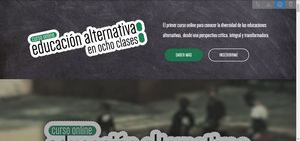
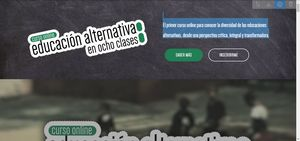
Nueva Pagina Talleres

Changed region(s): [[0.54, 0.0851, 0.9, 0.2837]]

diff --git a/assets/parallax/jarallax.min.js b/assets/parallax/jarallax.min.js
@@ -1,0 +1,7 @@
+/*!
+ * Name    : Just Another Parallax [Jarallax]
+ * Version : 1.7.3
+ * Author  : _nK https://nkdev.info
+ * GitHub  : https://github.com/nk-o/jarallax
+ */
+!function(e){"use strict";function t(){i=e.innerWidth||document.documentElement.clientWidth,a=e.innerHeight||document.documentElement.clientHeight}function n(e,t,n){e.addEventListener?e.addEventListener(t,n):e.attachEvent("on"+t,function(){n.call(e)})}function o(n){e.requestAnimationFrame(function(){"scroll"!==n.type&&t();for(var e=0,o=g.length;e<o;e++)"scroll"!==n.type&&(g[e].coverImage(),g[e].clipContainer()),g[e].onScroll()})}Date.now||(Date.now=function(){return(new Date).getTime()}),e.requestAnimationFrame||!function(){for(var t=["webkit","moz"],n=0;n<t.length&&!e.requestAnimationFrame;++n){var o=t[n];e.requestAnimationFrame=e[o+"RequestAnimationFrame"],e.cancelAnimationFrame=e[o+"CancelAnimationFrame"]||e[o+"CancelRequestAnimationFrame"]}if(/iP(ad|hone|od).*OS 6/.test(e.navigator.userAgent)||!e.requestAnimationFrame||!e.cancelAnimationFrame){var i=0;e.requestAnimationFrame=function(e){var t=Date.now(),n=Math.max(i+16,t);return setTimeout(function(){e(i=n)},n-t)},e.cancelAnimationFrame=clearTimeout}}();var i,a,r=function(){if(!e.getComputedStyle)return!1;var t,n=document.createElement("p"),o={webkitTransform:"-webkit-transform",OTransform:"-o-transform",msTransform:"-ms-transform",MozTransform:"-moz-transform",transform:"transform"};(document.body||document.documentElement).insertBefore(n,null);for(var i in o)"undefined"!=typeof n.style[i]&&(n.style[i]="translate3d(1px,1px,1px)",t=e.getComputedStyle(n).getPropertyValue(o[i]));return(document.body||document.documentElement).removeChild(n),"undefined"!=typeof t&&t.length>0&&"none"!==t}(),l=navigator.userAgent.toLowerCase().indexOf("android")>-1,s=/iPad|iPhone|iPod/.test(navigator.userAgent)&&!e.MSStream,c=!!e.opera,m=/Edge\/\d+/.test(navigator.userAgent),p=/Trident.*rv[ :]*11\./.test(navigator.userAgent),u=!!Function("/*@cc_on return document.documentMode===10@*/")(),d=document.all&&!e.atob;t();var g=[],f=function(){function e(e,n){var o,i=this;if(i.$item=e,i.defaults={type:"scroll",speed:.5,imgSrc:null,imgWidth:null,imgHeight:null,enableTransform:!0,elementInViewport:null,zIndex:-100,noAndroid:!1,noIos:!0,onScroll:null,onInit:null,onDestroy:null,onCoverImage:null},o=JSON.parse(i.$item.getAttribute("data-jarallax")||"{}"),i.options=i.extend({},i.defaults,o,n),!(l&&i.options.noAndroid||s&&i.options.noIos)){i.options.speed=Math.min(2,Math.max(-1,parseFloat(i.options.speed)));var a=i.options.elementInViewport;a&&"object"==typeof a&&"undefined"!=typeof a.length&&(a=a[0]),!a instanceof Element&&(a=null),i.options.elementInViewport=a,i.instanceID=t++,i.image={src:i.options.imgSrc||null,$container:null,$item:null,width:i.options.imgWidth||null,height:i.options.imgHeight||null,useImgTag:s||l||c||p||u||m},i.initImg()&&i.init()}}var t=0;return e}();f.prototype.css=function(t,n){if("string"==typeof n)return e.getComputedStyle?e.getComputedStyle(t).getPropertyValue(n):t.style[n];n.transform&&(n.WebkitTransform=n.MozTransform=n.transform);for(var o in n)t.style[o]=n[o];return t},f.prototype.extend=function(e){e=e||{};for(var t=1;t<arguments.length;t++)if(arguments[t])for(var n in arguments[t])arguments[t].hasOwnProperty(n)&&(e[n]=arguments[t][n]);return e},f.prototype.initImg=function(){var e=this;return null===e.image.src&&(e.image.src=e.css(e.$item,"background-image").replace(/^url\(['"]?/g,"").replace(/['"]?\)$/g,"")),!(!e.image.src||"none"===e.image.src)},f.prototype.init=function(){function e(){t.coverImage(),t.clipContainer(),t.onScroll(!0),t.options.onInit&&t.options.onInit.call(t),setTimeout(function(){t.$item&&t.css(t.$item,{"background-image":"none","background-attachment":"scroll","background-size":"auto"})},0)}var t=this,n={position:"absolute",top:0,left:0,width:"100%",height:"100%",overflow:"hidden",pointerEvents:"none"},o={position:"fixed"};t.$item.setAttribute("data-jarallax-original-styles",t.$item.getAttribute("style")),"static"===t.css(t.$item,"position")&&t.css(t.$item,{position:"relative"}),"auto"===t.css(t.$item,"z-index")&&t.css(t.$item,{zIndex:0}),t.image.$container=document.createElement("div"),t.css(t.image.$container,n),t.css(t.image.$container,{visibility:"hidden","z-index":t.options.zIndex}),t.image.$container.setAttribute("id","jarallax-container-"+t.instanceID),t.$item.appendChild(t.image.$container),t.image.useImgTag&&r&&t.options.enableTransform?(t.image.$item=document.createElement("img"),t.image.$item.setAttribute("src",t.image.src),o=t.extend({"max-width":"none"},n,o)):(t.image.$item=document.createElement("div"),o=t.extend({"background-position":"50% 50%","background-size":"100% auto","background-repeat":"no-repeat no-repeat","background-image":'url("'+t.image.src+'")'},n,o)),d&&(o.backgroundAttachment="fixed"),t.parentWithTransform=0;for(var i=t.$item;null!==i&&i!==document&&0===t.parentWithTransform;){var a=t.css(i,"-webkit-transform")||t.css(i,"-moz-transform")||t.css(i,"transform");a&&"none"!==a&&(t.parentWithTransform=1,t.css(t.image.$container,{transform:"translateX(0) translateY(0)"})),i=i.parentNode}t.css(t.image.$item,o),t.image.$container.appendChild(t.image.$item),t.image.width&&t.image.height?e():t.getImageSize(t.image.src,function(n,o){t.image.width=n,t.image.height=o,e()}),g.push(t)},f.prototype.destroy=function(){for(var e=this,t=0,n=g.length;t<n;t++)if(g[t].instanceID===e.instanceID){g.splice(t,1);break}var o=e.$item.getAttribute("data-jarallax-original-styles");e.$item.removeAttribute("data-jarallax-original-styles"),"null"===o?e.$item.removeAttribute("style"):e.$item.setAttribute("style",o),e.$clipStyles&&e.$clipStyles.parentNode.removeChild(e.$clipStyles),e.image.$container.parentNode.removeChild(e.image.$container),e.options.onDestroy&&e.options.onDestroy.call(e),delete e.$item.jarallax;for(var i in e)delete e[i]},f.prototype.getImageSize=function(e,t){if(e&&t){var n=new Image;n.onload=function(){t(n.width,n.height)},n.src=e}},f.prototype.clipContainer=function(){if(!d){var e=this,t=e.image.$container.getBoundingClientRect(),n=t.width,o=t.height;if(!e.$clipStyles){e.$clipStyles=document.createElement("style"),e.$clipStyles.setAttribute("type","text/css"),e.$clipStyles.setAttribute("id","#jarallax-clip-"+e.instanceID);var i=document.head||document.getElementsByTagName("head")[0];i.appendChild(e.$clipStyles)}var a=["#jarallax-container-"+e.instanceID+" {","   clip: rect(0 "+n+"px "+o+"px 0);","   clip: rect(0, "+n+"px, "+o+"px, 0);","}"].join("\n");e.$clipStyles.styleSheet?e.$clipStyles.styleSheet.cssText=a:e.$clipStyles.innerHTML=a}},f.prototype.coverImage=function(){var e=this;if(e.image.width&&e.image.height){var t=e.image.$container.getBoundingClientRect(),n=t.width,o=t.height,i=t.left,l=e.image.width,s=e.image.height,c=e.options.speed,m="scroll"===e.options.type||"scroll-opacity"===e.options.type,p=0,u=0,d=o,g=0,f=0;m&&(p=c<0?c*Math.max(o,a):c*(o+a),c>1?d=Math.abs(p-a):c<0?d=p/c+Math.abs(p):d+=Math.abs(a-o)*(1-c),p/=2),u=d*l/s,u<n&&(u=n,d=u*s/l),e.bgPosVerticalCenter=0,!(m&&d<a)||r&&e.options.enableTransform||(e.bgPosVerticalCenter=(a-d)/2,d=a),m?(g=i+(n-u)/2,f=(a-d)/2):(g=(n-u)/2,f=(o-d)/2),r&&e.options.enableTransform&&e.parentWithTransform&&(g-=i),e.parallaxScrollDistance=p,e.css(e.image.$item,{width:u+"px",height:d+"px",marginLeft:g+"px",marginTop:f+"px"}),e.options.onCoverImage&&e.options.onCoverImage.call(e)}},f.prototype.isVisible=function(){return this.isElementInViewport||!1},f.prototype.onScroll=function(e){var t=this;if(t.image.width&&t.image.height){var n=t.$item.getBoundingClientRect(),o=n.top,l=n.height,s={position:"absolute",visibility:"visible",backgroundPosition:"50% 50%"},c=n;if(t.options.elementInViewport&&(c=t.options.elementInViewport.getBoundingClientRect()),t.isElementInViewport=c.bottom>=0&&c.right>=0&&c.top<=a&&c.left<=i,e||t.isElementInViewport){var m=Math.max(0,o),p=Math.max(0,l+o),u=Math.max(0,-o),g=Math.max(0,o+l-a),f=Math.max(0,l-(o+l-a)),h=Math.max(0,-o+a-l),y=1-2*(a-o)/(a+l),v=1;if(l<a?v=1-(u||g)/l:p<=a?v=p/a:f<=a&&(v=f/a),"opacity"!==t.options.type&&"scale-opacity"!==t.options.type&&"scroll-opacity"!==t.options.type||(s.transform="translate3d(0, 0, 0)",s.opacity=v),"scale"===t.options.type||"scale-opacity"===t.options.type){var x=1;t.options.speed<0?x-=t.options.speed*v:x+=t.options.speed*(1-v),s.transform="scale("+x+") translate3d(0, 0, 0)"}if("scroll"===t.options.type||"scroll-opacity"===t.options.type){var b=t.parallaxScrollDistance*y;r&&t.options.enableTransform?(t.parentWithTransform&&(b-=o),s.transform="translate3d(0, "+b+"px, 0)"):t.image.useImgTag?s.top=b+"px":(t.bgPosVerticalCenter&&(b+=t.bgPosVerticalCenter),s.backgroundPosition="50% "+b+"px"),s.position=d?"absolute":"fixed"}t.css(t.image.$item,s),t.options.onScroll&&t.options.onScroll.call(t,{section:n,beforeTop:m,beforeTopEnd:p,afterTop:u,beforeBottom:g,beforeBottomEnd:f,afterBottom:h,visiblePercent:v,fromViewportCenter:y})}}},n(e,"scroll",o),n(e,"resize",o),n(e,"orientationchange",o),n(e,"load",o);var h=function(e){("object"==typeof HTMLElement?e instanceof HTMLElement:e&&"object"==typeof e&&null!==e&&1===e.nodeType&&"string"==typeof e.nodeName)&&(e=[e]);var t,n=arguments[1],o=Array.prototype.slice.call(arguments,2),i=e.length,a=0;for(a;a<i;a++)if("object"==typeof n||"undefined"==typeof n?e[a].jarallax||(e[a].jarallax=new f(e[a],n)):e[a].jarallax&&(t=e[a].jarallax[n].apply(e[a].jarallax,o)),"undefined"!=typeof t)return t;return e};h.constructor=f;var y=e.jarallax;if(e.jarallax=h,e.jarallax.noConflict=function(){return e.jarallax=y,this},"undefined"!=typeof jQuery){var v=function(){var t=arguments||[];Array.prototype.unshift.call(t,this);var n=h.apply(e,t);return"object"!=typeof n?n:this};v.constructor=f;var x=jQuery.fn.jarallax;jQuery.fn.jarallax=v,jQuery.fn.jarallax.noConflict=function(){return jQuery.fn.jarallax=x,this}}n(e,"DOMContentLoaded",function(){h(document.querySelectorAll("[data-jarallax], [data-jarallax-video]"))})}(window);

diff --git a/index.html b/index.html
@@ -6,7 +6,7 @@
   <meta http-equiv="X-UA-Compatible" content="IE=edge">
   <meta name="generator" content="Mobirise v4.8.4, mobirise.com">
   <meta name="viewport" content="width=device-width, initial-scale=1, minimum-scale=1">
-  <link rel="shortcut icon" href="assets/images/logo-512x152.png" type="image/x-icon">
+  <link rel="shortcut icon" href="assets/images/grupo-128x63.png" type="image/x-icon">
   <meta name="description" content="">
   <title>Curso Online La Educación Prohibida</title>
   <link rel="stylesheet" href="assets/web/assets/mobirise-icons/mobirise-icons.css">
@@ -55,7 +55,31 @@
     </nav>
 </section>
 
-<section class="engine"><a href="https://mobirise.info/k">how to develop free website</a></section><section class="mbr-section content4 cid-r6gtZC47NH" id="content4-1i">
+<section class="engine"><a href="https://mobirise.info/w">html5 templates</a></section><section class="header7 cid-r6osCpltVT mbr-parallax-background" id="header7-1j">
+
+    
+
+    
+
+    <div class="container">
+        <div class="media-container-row">
+
+            <div class="media-content align-right">
+                <h1 class="mbr-section-title mbr-white pb-3 mbr-fonts-style display-1">Nuevo Curso Online</h1>
+                <div class="mbr-section-text mbr-white pb-3">
+                    <p class="mbr-text mbr-fonts-style display-5">
+                        El primer curso online para conocer la diversidad de las educaciones alternativas, desde una perspectiva crítica, integral y transformadora.</p>
+                </div>
+                <div class="mbr-section-btn"><a class="btn btn-md btn-primary display-4" href="http://taller.educacionprohibida.com/online/">SABER MÁS</a></div>
+            </div>
+
+            <div class="mbr-figure" style="width: 100%;"><iframe class="mbr-embedded-video" src="https://www.youtube.com/embed/0IHuKyIdyw0?rel=0&amp;amp;showinfo=0&amp;autoplay=0&amp;loop=0" width="1280" height="720" frameborder="0" allowfullscreen></iframe></div>
+
+        </div>
+    </div>
+</section>
+
+<section class="mbr-section content4 cid-r6gtZC47NH" id="content4-1i">
 
     
 
@@ -156,7 +180,7 @@
             <div class="media-container-column col-lg-8" data-form-type="formoid">
                     <div data-form-alert="" hidden="">Gracias!</div>
             
[2 lines of base64/hex data omitted]
                         <div class="row row-sm-offset">
                             <div class="col-md-4 multi-horizontal" data-for="name">
                                 <div class="form-group">
@@ -238,6 +262,7 @@
   <script src="assets/tether/tether.min.js"></script>
   <script src="assets/bootstrap/js/bootstrap.min.js"></script>
   <script src="assets/smoothscroll/smooth-scroll.js"></script>
+  <script src="assets/parallax/jarallax.min.js"></script>
   <script src="assets/dropdown/js/script.min.js"></script>
   <script src="assets/touchswipe/jquery.touch-swipe.min.js"></script>
   <script src="assets/masonry/masonry.pkgd.min.js"></script>

diff --git a/assets/mobirise/css/mbr-additional.css b/assets/mobirise/css/mbr-additional.css
@@ -36,10 +36,10 @@ body {
 }
 .display-5 {
   font-family: 'Dense-Regular';
-  font-size: 1.6rem;
+  font-size: 1.8rem;
 }
 .display-5 > .mbr-iconfont {
-  font-size: 2.56rem;
+  font-size: 2.88rem;
 }
 .display-7 {
   font-family: 'YanoneKaffeesatz-Light';
@@ -70,9 +70,9 @@ body {
     line-height: calc( 1.4 * (1.14rem + (1.4 - 1.14) * ((100vw - 20rem) / (48 - 20))));
   }
   .display-5 {
-    font-size: 1.28rem;
-    font-size: calc( 1.21rem + (1.6 - 1.21) * ((100vw - 20rem) / (48 - 20)));
-    line-height: calc( 1.4 * (1.21rem + (1.6 - 1.21) * ((100vw - 20rem) / (48 - 20))));
+    font-size: 1.44rem;
+    font-size: calc( 1.28rem + (1.8 - 1.28) * ((100vw - 20rem) / (48 - 20)));
+    line-height: calc( 1.4 * (1.28rem + (1.8 - 1.28) * ((100vw - 20rem) / (48 - 20))));
   }
 }
 /* Buttons */
@@ -1370,6 +1370,21 @@ body {
 .dropup .dropdown-toggle::after {
   display: none;
 }
+.cid-r6osCpltVT {
+  padding-top: 120px;
+  padding-bottom: 90px;
+  background-image: url("../../../assets/images/background-black-blackboard-159770-2000x1333.jpg");
+}
+@media (min-width: 992px) {
+  .cid-r6osCpltVT .mbr-figure {
+    padding-left: 4rem;
+  }
+}
+@media (max-width: 991px) {
+  .cid-r6osCpltVT .mbr-figure {
+    padding-top: 3rem;
+  }
+}
 .cid-r5QOhcxmyS .navbar {
   padding: .5rem 0;
   background: #000000;
@@ -1768,7 +1783,7 @@ body {
   color: #c1c1c1 !important;
 }
 .cid-r6gtZC47NH {
-  padding-top: 120px;
+  padding-top: 30px;
   padding-bottom: 30px;
   background-color: #ffffff;
 }
